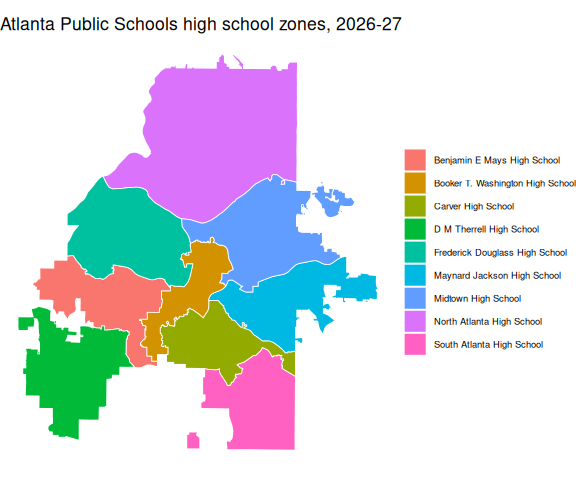
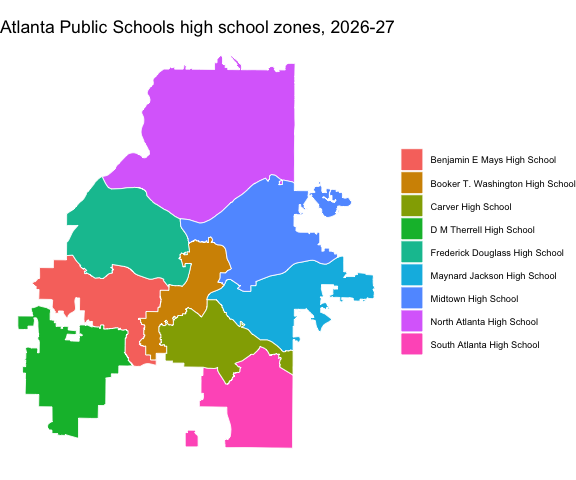
README and school-zones vignette: copy edits and new examples
README: tighter intro with a feature list, workflow steps as a list,
expanded lookup-table section with a locale join example, API docs
link now points to /api. School-zones vignette: a multi-address
data-frame example, a renamed overlapping-zones section, and a link to
the school-choice article. Ignore README.html and Quarto files.

diff --git a/README.md b/README.md
@@ -10,37 +10,37 @@
 experimental](https://img.shields.io/badge/lifecycle-experimental-orange.svg)](https://lifecycle.r-lib.org/articles/stages.html#experimental)
 <!-- badges: end -->
 
-georgiacivicdata brings Georgia’s public data into R. It is the R client
-for the API run by [Georgia Civic Data](https://georgiacivicdata.org).
+`georgiacivicdata` brings Georgia’s public data into R. It is the R
+client for the API run by [Georgia Civic
+Data](https://georgiacivicdata.org).
 
-Georgia Civic Data gathers, organizes, and standardizes Georgia’s public
-data, helping residents, parents, researchers, and professionals find
-answers in data that is already theirs. Georgia’s public data is spread
-across dozens of agency websites as PDFs, spreadsheets and CSV files,
-and each source names its columns, student groups and places in its own
-way. Georgia Civic Data does that cleanup once. It puts every dataset in
-the same shape, with the same codes for counties, school districts,
-schools and demographic groups, so datasets from different agencies can
-be compared and joined. The data covers education, Census, health and
-immigration, at levels from the whole state down to single schools and
-Census tracts. Each dataset comes with a data contract that documents
-its source, its columns and the limits of the data.
+[Georgia Civic Data](https://georgiacivicdata.org) gathers, organizes,
+and standardizes Georgia’s public data; helping residents, parents,
+researchers, and professionals find answers in data that is already
+theirs. We put every dataset in the same shape, with the same codes for
+counties, school districts, schools and demographic groups. Datasets
+from different agencies can be compared and joined due to the
+standardization.
 
-The cleaned data is free to use through four channels: a point-and-click
-chart builder, a chatbot that answers questions in English or Spanish, a
-public API, and a connector for AI assistants. Georgia Civic Data is
-independent and is not affiliated with the State of Georgia or any of
-its agencies.
+The data covers education, Census, health, and immigration. Geographic
+detail spans from the whole state down to single schools and Census
+tracts. Each dataset comes with a data contract that documents its
+source, its columns, and the limits of the data.
 
-This package works with the public API so you don’t have to. You find
-datasets, read their documentation, and get rows, all from R. Results
-come back as tibbles with the right column types: codes stay text so
-leading zeros survive, years are integers, and rates are proportions
-between 0 and 1. Every school, district and county code comes with its
-name, and you can filter by name instead of code. School attendance
-zones and district boundaries come back as ‘sf’ objects, ready to map,
-and you can look up the schools zoned for any Georgia address. There is
-no API key and nothing to configure.
+With `georgiacivicdata` you can:
+
+- Find Georgia datasets, read the documentation, and get rows, all from
+  R.
+- Get tibbles with consistent column types: codes stay text so leading
+  zeros survive, years are integers, and rates are proportions between 0
+  and 1.
+- See every school, district, and county code with its name and filter
+  by name instead of code.
+- Get school attendance zones and district boundaries as ‘sf’ objects,
+  ready to map.
+- Look up the schools zoned for any Georgia address.
+
+There is no API key and nothing to configure.
 
 ## Installation
 
@@ -51,21 +51,25 @@ Install the development version from GitHub:
 pak::pak("shanejorr/georgia-data-rpackage")
 ```
 
-## Example: graduation rates in Fulton County
+## Example: Graduation rates in Fulton County
 
 This walkthrough answers one question from start to finish: how has the
 high school graduation rate in Fulton County Schools changed over time?
-It follows the usual workflow: find a dataset, learn what is in it,
-download the rows you need, and plot them.
+It follows the usual workflow:
+
+- Find a dataset: `gcd_search()` or `gcd_datasets()`.
+- Learn what is in it: `gcd_columns()` and `gcd_describe()`.
+- Download the data: `gcd_rows()`.
+- Plot them: any R plotting tool, such as ‘ggplot2’.
 
 ### Step 1: find the right dataset
 
 Every dataset has a short name, such as `graduation_rate_4_year_cohort`,
 and you need that name to get data. If you don’t know it, `gcd_search()`
 searches the catalog in plain words. It matches both keywords and
-meaning, so you don’t need the exact wording of a dataset’s title. Each
-result has the dataset’s `name`, its `title`, and the first and last
-years it covers.
+meaning so you don’t need the exact wording of a dataset’s title. Each
+result has the dataset’s `name`, `title`, and the first and last years
+it covers.
 
 ``` r
 library(georgiacivicdata)
@@ -84,14 +88,14 @@ gcd_search("high school graduation", n = 5)[, c("name", "title", "year_min", "ye
 
 The four-year cohort graduation rate, `graduation_rate_4_year_cohort`,
 is the one we want: the share of students who graduate within four years
-of starting ninth grade. To browse instead of search, `gcd_datasets()`
-lists the whole catalog, about 176 datasets.
+of starting ninth grade. `gcd_datasets()` lists the whole catalog,
+allowing browsing instead of searching.
 
 ### Step 2: learn what is in it
 
-Before downloading anything, check what each row holds. `gcd_columns()`
-lists a dataset’s columns with their type, their role (a year, a place,
-a demographic group, or a measured value), and their unit.
+Check what datasets hold before downloading them. `gcd_columns()` lists
+a dataset’s columns with its type, role (a year, a place, a demographic
+group, or a measured value), and unit.
 
 ``` r
 gcd_columns("graduation_rate_4_year_cohort")[, c("column", "type", "role", "unit")]
@@ -111,11 +115,11 @@ Each row is one year, one place and one demographic group. The value we
 want is `graduation_rate`, a proportion on the 0-1 scale, so 0.9 means
 90%.
 
-`gcd_describe()` prints the rest of the dataset’s documentation: its
-source, the years and detail levels it covers, and notes on how to use
-it. Those notes matter here. Georgia changed how it calculates the
-graduation rate in 2011, so the rates before and after 2011 are not
-comparable. We will start the series in 2011.
+`gcd_describe()` prints the rest of the dataset’s documentation, which
+includes its source, the years and detail levels it covers, and notes on
+how to use it. Those notes matter here. Georgia changed how it
+calculates the graduation rate in 2011, so the rates before and after
+2011 are not comparable. We will start the series in 2011.
 
 ### Step 3: get the rows
 
@@ -137,14 +141,14 @@ grads <- gcd_rows(
   demographic = c("all", "black", "hispanic", "white"),
   year = 2011:2025
 )
-#> ℹ This result contains NULL metric cells, which mean the value was SUPPRESSED (small
-#>   counts), not zero — do not report or chart a NULL as 0 (see null_semantics and each
-#>   column's null_meaning).
-#> ℹ Demographic groups overlap across categories and may overlap within a category
-#>   (active_duty can be a subset of military_connected). Read the dataset's definitions and
-#>   non_additive declarations. Use the published `all` total when available, never add it
-#>   to its subgroups. Counts reconcile only for complete, disjoint groups; subgroup rates
-#>   generally do not add to the overall rate.
+#> ℹ This result contains NULL metric cells, which mean the value was SUPPRESSED (small counts),
+#>   not zero — do not report or chart a NULL as 0 (see null_semantics and each column's
+#>   null_meaning).
+#> ℹ Demographic groups overlap across categories and may overlap within a category (active_duty
+#>   can be a subset of military_connected). Read the dataset's definitions and non_additive
+#>   declarations. Use the published `all` total when available, never add it to its subgroups.
+#>   Counts reconcile only for complete, disjoint groups; subgroup rates generally do not add to
+#>   the overall rate.
 #> ℹ `district_census_id` is a 5-digit Census school-district code, NOT a county FIPS, and a
 #>   district is not 1:1 with a county — do not map these district rows as counties.
 grads
@@ -200,11 +204,21 @@ ggplot(grads_all, aes(x = year, y = graduation_rate)) +
 
 ## Lookup tables
 
-Shared lookup tables, called dimensions, hold the names and attributes
-of districts, schools, counties and demographic groups.
-`gcd_dimension()` returns one, with the same name filters as
-`gcd_rows()`. Here are the active high schools in Fulton County with
-their locale (city, suburb, town or rural):
+Datasets hold codes and figures, with place names added. Everything else
+known about a place lives in shared lookup tables, called dimensions: a
+district’s type, a school’s level, grade span, locale (city, suburb,
+town or rural), charter status, address and coordinates, and a Census
+tract’s land area and population. `gcd_dimension()` returns one as a
+tibble, with the same name filters as `gcd_rows()`.
+
+Lookup tables help you:
+
+- Browse what exists before you request data, such as every active high
+  school in a district.
+- Add attributes the datasets don’t carry, then filter or group by them.
+- Map schools with their coordinates.
+
+Here are the active high schools in Fulton County with their locale:
 
 ``` r
 gcd_dimension("schools", district = "Fulton County", school_level = "high",
@@ -225,6 +239,29 @@ gcd_dimension("schools", district = "Fulton County", school_level = "high",
 #> 10 660           0386        Independence High School         city  
 #> # ℹ 12 more rows
 ```
+
+To compare graduation rates by locale, join the locale to school-level
+graduation rates. School codes repeat across districts, so join on
+`district_code` and `school_code` together.
+
+``` r
+schools <- gcd_dimension("schools", district = "Fulton County",
+                         columns = c("district_code", "school_code", "locale"))
+
+school_grads <- gcd_rows("graduation_rate_4_year_cohort",
+                         district = "Fulton County", detail = "schools",
+                         demographic = "all", year = 2025, quiet = TRUE)
+
+school_grads <- merge(school_grads, schools, by = c("district_code", "school_code"))
+aggregate(graduation_rate ~ locale, data = school_grads, FUN = median)
+#>   locale graduation_rate
+#> 1   city         0.95080
+#> 2  rural         0.94330
+#> 3 suburb         0.96585
+```
+
+Fulton County has only two rural high schools, so treat this as an
+illustration, not a finding.
 
 ## School zones and places
 
@@ -254,8 +291,8 @@ Georgia Civic Data API.
 gcd_locate(address = "206 Washington St SW, Atlanta, GA 30334")[
   , c("geographic_type", "geographic_id", "geographic_name", "grades")
 ]
-#> ℹ A zone is the default assignment, not the only option: a Georgia student may attend
-#>   another public school by transfer, or a charter, magnet or other choice school. See
+#> ℹ A zone is the default assignment, not the only option: a Georgia student may attend another
+#>   public school by transfer, or a charter, magnet or other choice school. See
 #>   attendance_rules for the main ways.
 #> # A tibble: 7 × 4
 #>   geographic_type   geographic_id geographic_name                               grades
@@ -288,4 +325,4 @@ The package code is MIT-licensed.
 
 - Package website: <https://georgiacivicdata.org/r/>
 - Georgia Civic Data: <https://georgiacivicdata.org>
-- API documentation: <https://georgiacivicdata.org/docs>
+- API documentation: <https://georgiacivicdata.org/api>
